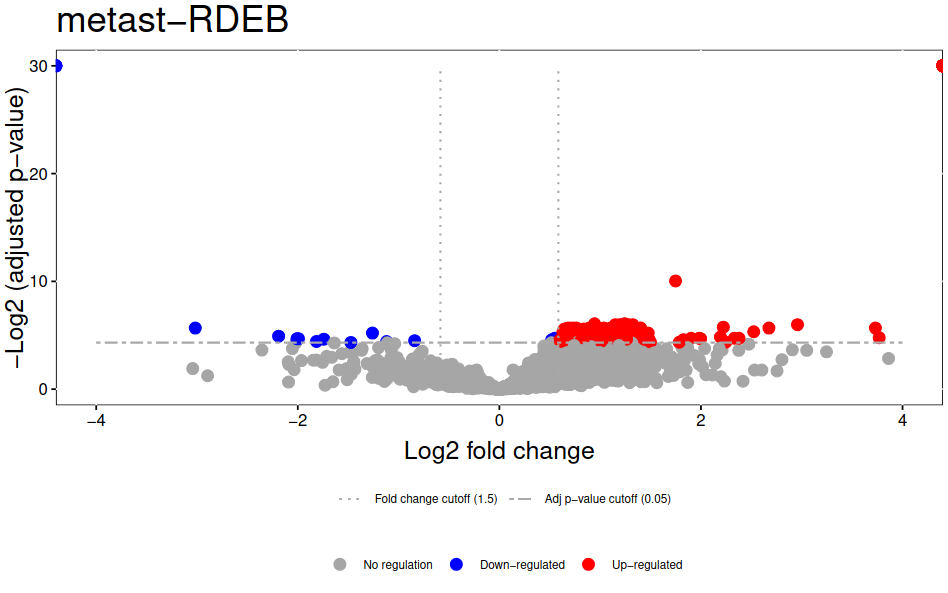
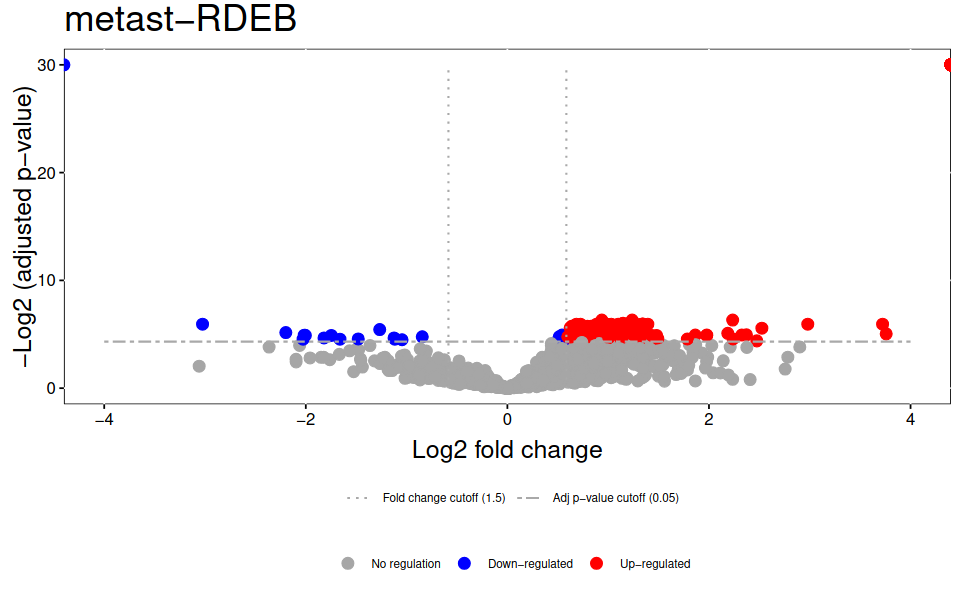
update results and versions - add history

diff --git a/topics/proteomics/tutorials/maxquant-msstats-dda-lfq/tutorial.md b/topics/proteomics/tutorials/maxquant-msstats-dda-lfq/tutorial.md
@@ -24,6 +24,10 @@ requirements:
       - maxquant-label-free
 subtopic: id-quant
 tags: [label-free]
+answer_histories:
+- label: UseGalaxy.eu - MaxQuant and MSstats
+  history: https://usegalaxy.eu/u/nilchia/h/maxquant-and-msstats-for-the-analysis-of-label-free-data-1
+  date: 2025-09-21
 
 recordings:
 - captioners:
@@ -129,7 +133,7 @@ The run time of **MaxQuant** {% icon tool %} depends on the number and size of t
 >    - *"Match between runs"*: `yes`
 >    - In *"Parameter Group"*:
 >        - {% icon param-collection %} *"Infiles"*: `raw_files`
->    - *"Generate PTXQC (proteomics quality control pipeline) report?"*: `True`
+>    - *"Generate PTXQC (proteomics quality control pipeline) report? (experimental setting)"*: `True`
 >    - In *"Output Options"*:
 >        - *"Select the desired outputs."*: `Protein Groups` `Evidence`
 >
@@ -184,13 +188,13 @@ We use the modified MaxQuant protein groups and evidence files as input in MSsta
 >    - {% icon param-file %} *"Select lines from"*: `Evidence` (output of **MaxQuant** {% icon tool %})
 >    - *"the pattern"*: `(HUMAN)|(Sequence)`
 >    - Once finished, rename the output `select evidence`
-> 3. {% tool [Replace Text in a specific column](toolshed.g2.bx.psu.edu/repos/bgruening/text_processing/tp_replace_in_column/9.5+galaxy0) %} with the following parameters:
+> 3. {% tool [Replace Text in a specific column](toolshed.g2.bx.psu.edu/repos/bgruening/text_processing/tp_replace_in_column/9.5+galaxy2) %} with the following parameters:
 >    - {% icon param-file %} *"File to process"*: `select protein groups` (output of **Select** {% icon tool %})
 >    - In *"Replacement"*:
 >            - *"in column"*: `Column: 138`
 >            - *"Find pattern"*: `+`
 >    - Once finished, rename the file into `protein groups input for MSstats`
-> 4. {% tool [Replace Text in a specific column](toolshed.g2.bx.psu.edu/repos/bgruening/text_processing/tp_replace_in_column/9.5+galaxy0) %} with the following parameters:
+> 4. {% tool [Replace Text in a specific column](toolshed.g2.bx.psu.edu/repos/bgruening/text_processing/tp_replace_in_column/9.5+galaxy2) %} with the following parameters:
 >    - {% icon param-file %} *"File to process"*: `select evidence` (output of **Select** {% icon tool %})
 >    - In *"Replacement"*:
 >            - *"in column"*: `Column: 50`
@@ -218,8 +222,8 @@ We use the modified MaxQuant protein groups and evidence files as input in MSsta
 >            - *"Select visualization outputs"*: `MSstats VolcanoPlot`
 >    	     - In *"Advanced visualization parameters"*:
 >                - *"Involve fold change cutoff or not for volcano plot or heatmap"*: `1.5`
->                - *"Display protein names in Volcano Plot"*: `No`
 >                - *"For volcano plot or heatmap, logarithm transformation of adjusted p-valuewith base 2 or 10"*: `2`
+>                - *"Display protein names in Volcano Plot"*: `No`
 >
 {: .hands_on}
 
@@ -231,8 +235,8 @@ We use the modified MaxQuant protein groups and evidence files as input in MSsta
 >
 > > <solution-title></solution-title>
 > >
-> > 1. 27 (2512 lines in protein group file minus 2485 lines after select)
-> > 2. 2221 (MSstats log)
+> > 1. 27 (2518 lines in protein group file minus 2491 lines after select)
+> > 2. 1693 (MSstats log)
 > >
 > {: .solution}
 >
@@ -311,12 +315,11 @@ We’ll count and visualize the number of features per run and calculate the dis
 >        - *"Type"* : `count`
 >        - *"On column"*: `Column: 1`
 > 3. Click on {% icon galaxy-barchart %} “Visualize this data” on the **Datamash** {% icon tool %} result.
->   - Select `Bar diagram (NVD3)`
->   - Click  `Show` {% icon galaxy-vis-config %} at the top right of the chart.
+>   - Select `Bar, Line and Scatter`
+>   - Click  `Expand` {% icon galaxy-vis-config %} at the top right of the chart.
 >   - *"Provide a title"*: `Number of features per sample`
->   - Click `Select data` {% icon galaxy-chart-select-data %}
->   - *"Data point labels"*: `Column: 1`
->   - Save {% icon galaxy-save %} (file is saved under "User" --> "Visualizations")
+>   - *"Column of x-axis values"*: `Column: 1`
+>   - Save {% icon galaxy-save %} (file is saved under "Visualization" --> "Saved Visualizations")
 >
 {: .hands_on}
 
@@ -348,7 +351,7 @@ In order to make its IDs compatible with the ones from the comparison result at 
 
 > <hands-on-title>Filtering MSstats results</hands-on-title>
 >
-> 1. {% tool [Replace Text in a specific column](toolshed.g2.bx.psu.edu/repos/bgruening/text_processing/tp_replace_in_column/9.5+galaxy0) %} with the following parameters:
+> 1. {% tool [Replace Text in a specific column](toolshed.g2.bx.psu.edu/repos/bgruening/text_processing/tp_replace_in_column/9.5+galaxy2) %} with the following parameters:
 >    - {% icon param-file %} *"File to process"*: `Comparison Result` (output of **MSstats** {% icon tool %})
 >    - In *"Replacement"*:
 >        - *"in column"*: `Column: 1`
@@ -387,7 +390,7 @@ In order to make its IDs compatible with the ones from the comparison result at 
 > > <solution-title></solution-title>
 > >
 > > 1. Adjusted p-values control for the multiplicity of testing. Since we fit a separate model, and conduct a separate comparison for each protein, the number of tests equals the number of comparisons. A 0.05 cutoff of an adjusted p-value controls the False Discovery Rate in the collection of tests over all the proteins at 5%. Since they account for the multiplicity, adjusted p-values are more conservative (i.e. it is more difficult to detect a change).
-> > 2. 305 in total (first filtering step); 289 are upregulated in metastasized cSCC (metastasized filtered) and 14 are upregulated in RDEB cSCC (rdeb filtered).
+> > 2. 198 in total (first filtering step); 178 are upregulated in metastasized cSCC (metastasized filtered) and 15 are upregulated in RDEB cSCC (rdeb filtered).
 > >
 > {: .solution}
 >
@@ -417,7 +420,7 @@ For each condition we select only the significant proteins, which are proteins w
 >    - *"Cut columns"*: `c1`
 >    - {% icon param-file %} *"From"*: `significant rdeb` (output of last **Filter** {% icon tool %})
 >    - Rename the file into `rdeb cut`
-> 5. {% tool [Replace Text in a specific column](toolshed.g2.bx.psu.edu/repos/bgruening/text_processing/tp_replace_in_column/1.1.3) %} with the following parameters:
+> 5. {% tool [Replace Text in a specific column](toolshed.g2.bx.psu.edu/repos/bgruening/text_processing/tp_replace_in_column/9.5+galaxy2) %} with the following parameters:
 >    - {% icon param-file %} *"File to process"*: `Sample Quantification Matrix` (output of **MSstats** {% icon tool %})
 >    - In *"Replacement"*:
 >        - *"in column"*: `Column: 1`
@@ -461,7 +464,7 @@ For each condition we select only the significant proteins, which are proteins w
 >
 > > <solution-title></solution-title>
 > >
-> > 1. 128 are upregulated in metastasized cSCC and 10 are upregulated in RDEB cSCC (number of lines minus 1 in the first filtering step per condition).
+> > 1. 125 are upregulated in metastasized cSCC and 14 are upregulated in RDEB cSCC (number of lines minus 1 in the first filtering step per condition).
 > >
 > {: .solution}
 >
